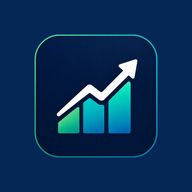
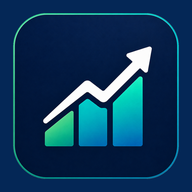
Add files via upload

diff --git a/index.html b/index.html
@@ -29,7 +29,7 @@ body{background:var(--bg);color:var(--text);font-family:'DM Mono',monospace;
   backdrop-filter:blur(12px);padding:12px 16px;border-bottom:1px solid var(--border);
   display:flex;justify-content:space-between;align-items:center}
 .topbar-left{display:flex;align-items:center;gap:8px}
-.topbar img{width:30px;height:30px;border-radius:7px}
+.topbar img{width:30px;height:30px;border-radius:0}
 .topbar-title{font-family:'Fraunces',serif;font-size:18px;font-weight:300}
 .topbar-title span{font-style:italic;color:var(--accent)}
 .topbar-right{display:flex;align-items:center;gap:8px}
@@ -848,19 +848,31 @@ async function triggerBiometric(){
   try {
     const challenge = new Uint8Array(32);
     crypto.getRandomValues(challenge);
+    // Construir allowCredentials si tenemos credId guardado
+    const allowCreds = [];
+    if(auth.credId){
+      const credBytes = Uint8Array.from(atob(auth.credId), c => c.charCodeAt(0));
+      allowCreds.push({ type:'public-key', id: credBytes, transports:['internal'] });
+    }
     await navigator.credentials.get({
       publicKey:{
         challenge,
         rpId: location.hostname||'localhost',
         userVerification:'required',
-        timeout:60000
+        timeout:60000,
+        allowCredentials: allowCreds
       }
     });
     msg.textContent = '✓ Acceso concedido';
     msg.className = 'auth-msg ok';
     setTimeout(unlockApp, 400);
   } catch(e){
-    msg.textContent = 'Autenticación fallida — intentá con PIN';
+    console.log('Bio error:', e.name, e.message);
+    if(e.name === 'NotAllowedError'){
+      msg.textContent = 'Cancelado — usá PIN';
+    } else {
+      msg.textContent = 'Huella no disponible — usá PIN';
+    }
     msg.className = 'auth-msg err';
     setTimeout(showPinLogin, 1200);
   }
